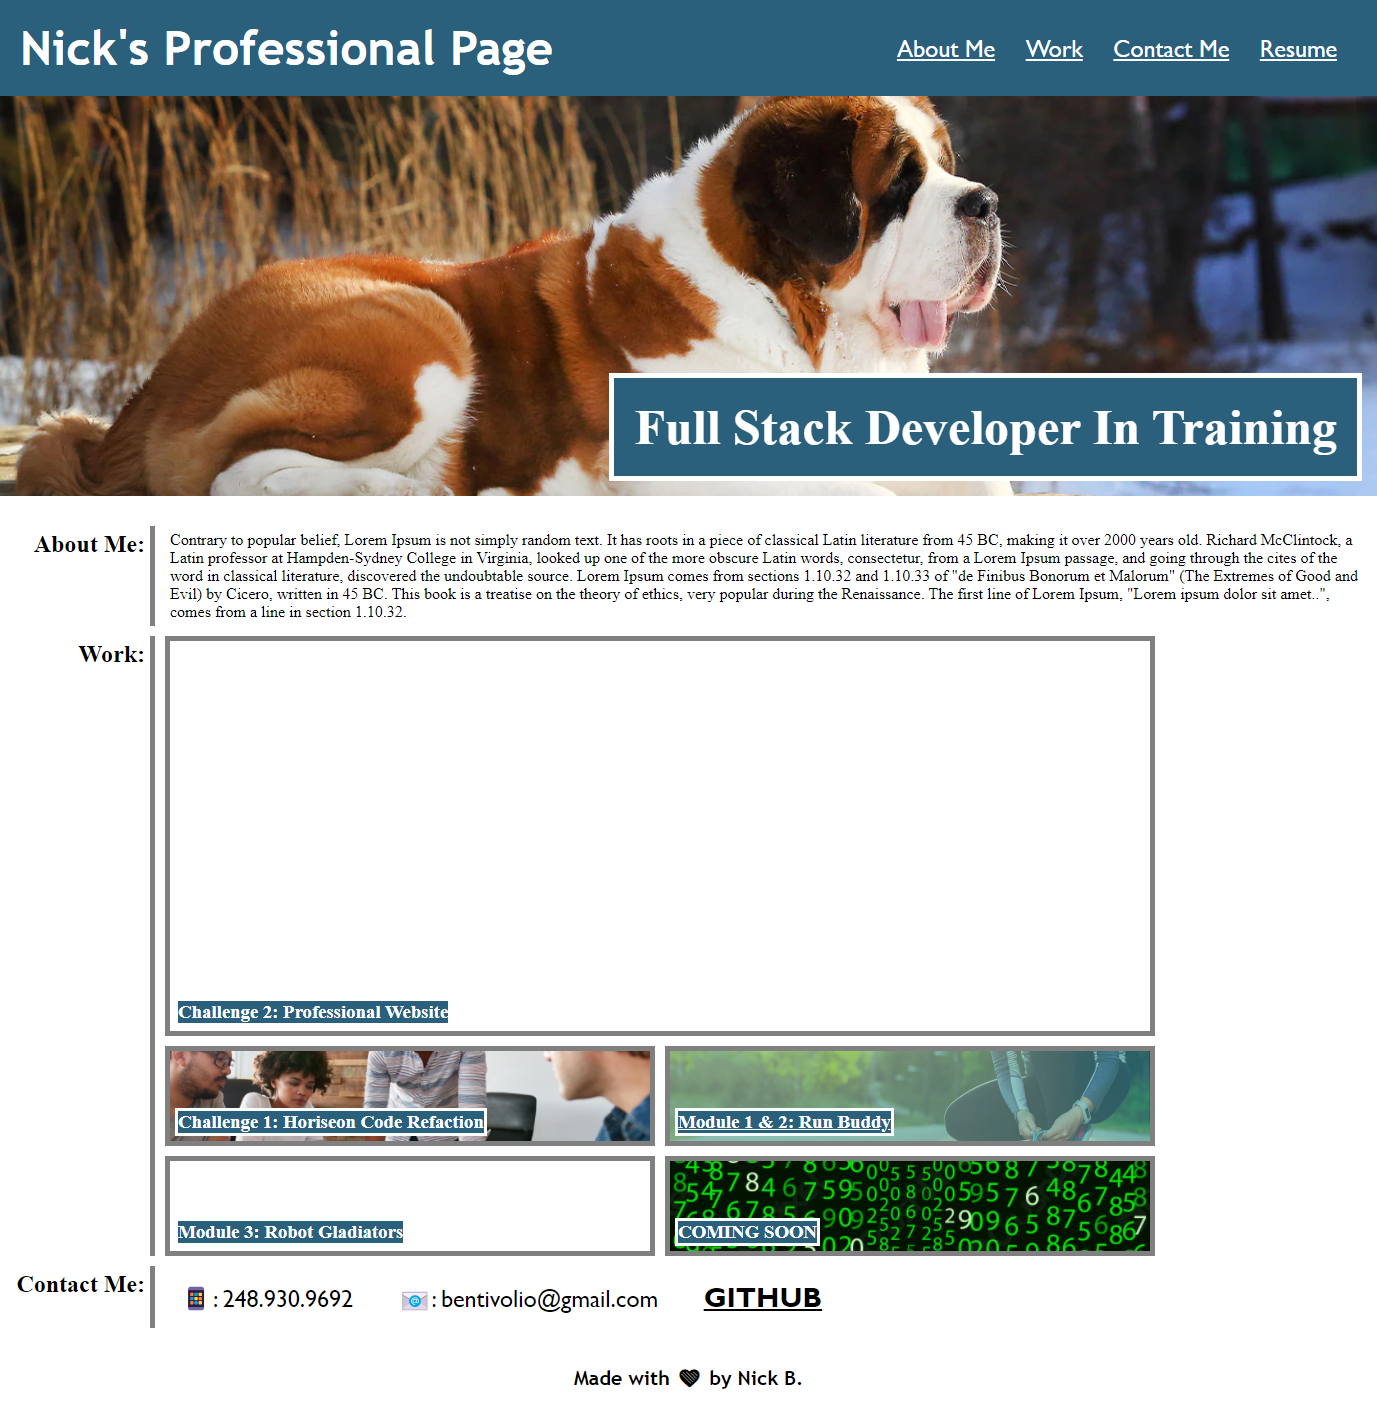
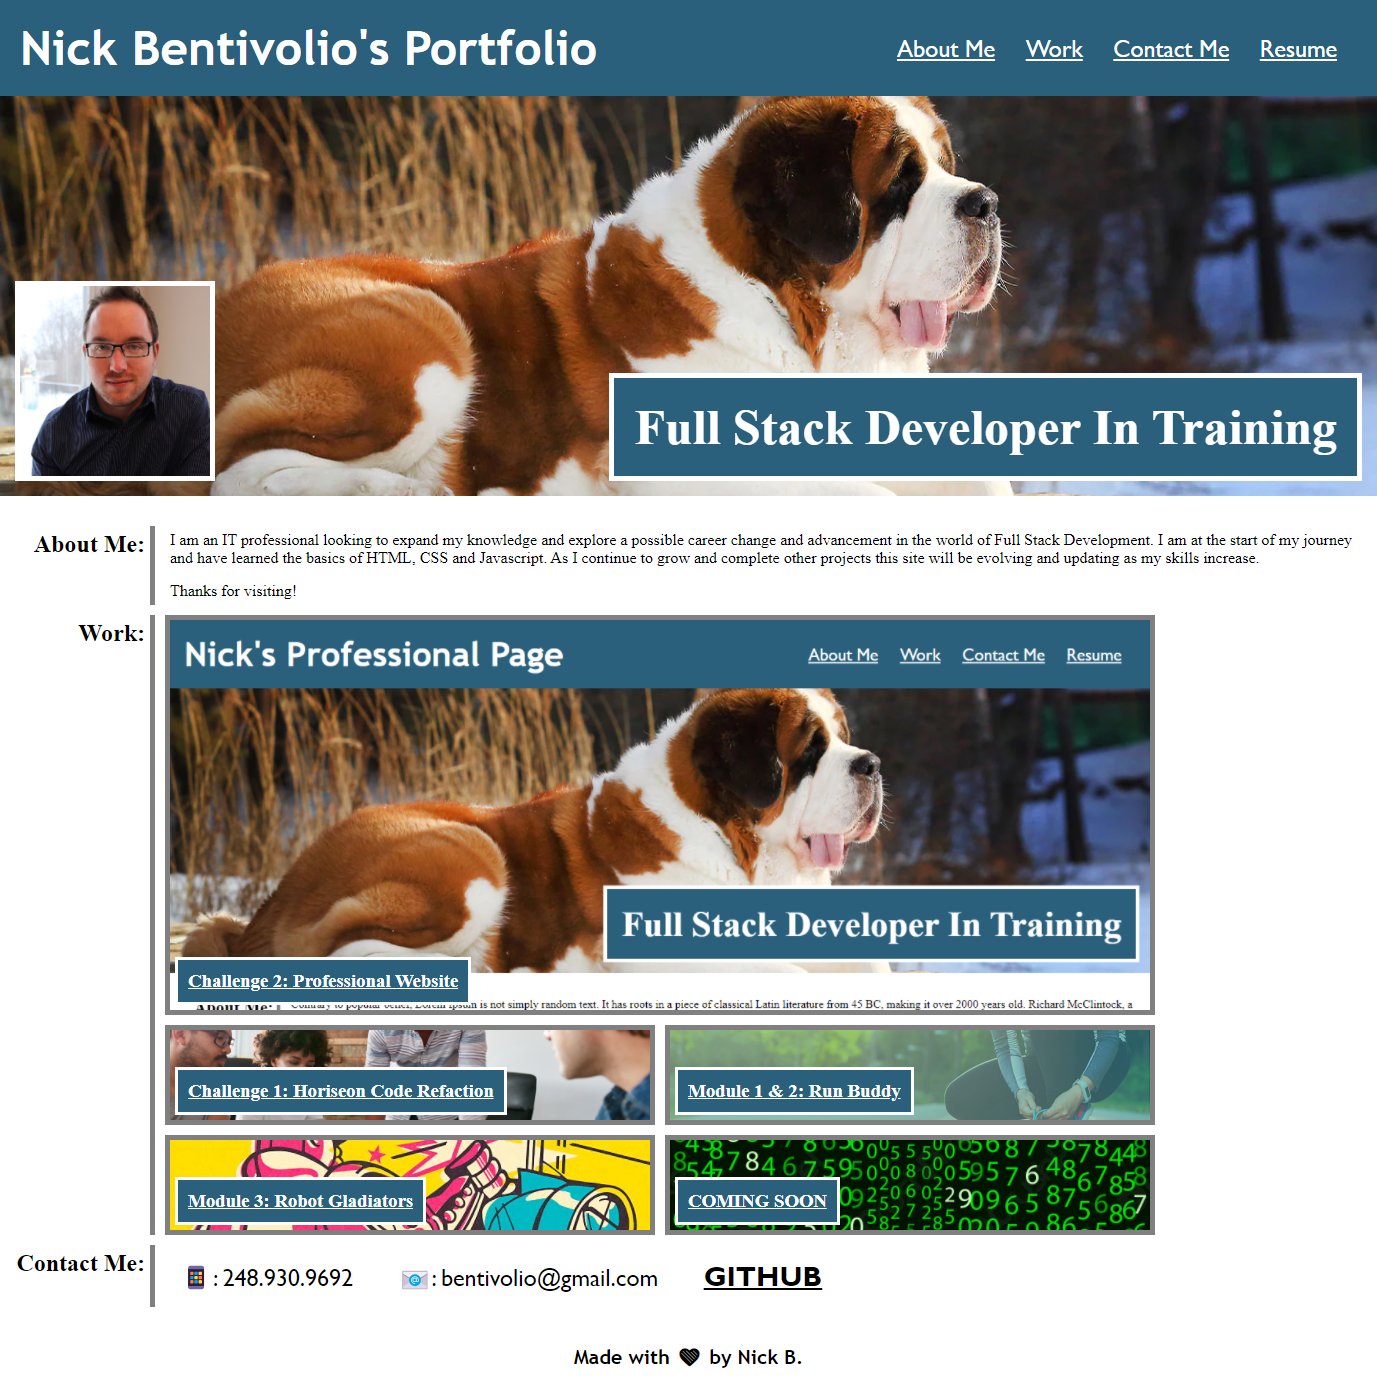
added profile picture, cleaned code

diff --git a/index.html b/index.html
@@ -52,6 +52,7 @@
     <div class="leftcontent"><h2 id="About Me">About Me:</h2></div>
     <div>
       <p>I am an IT professional looking to expand my knowledge and explore a possible career change and advancement in the world of Full Stack Development. I am at the start of my journey and have learned the basics of HTML, CSS and Javascript. As I continue to grow and complete other projects this site will be evolving and updating as my skills increase. </p>
+      <p>Below are links to my various repositories for projects in this class.</p>
       <p>Thanks for visiting!</p>
     </div>
   

diff --git a/assets/css/style.css b/assets/css/style.css
@@ -147,11 +147,10 @@ section div p {
 .flexwithinflex {
     position: absolute;
     left: 0;
-    bottom: 0;
-    border: 3px solid white;
-    background-color: var(--primary-background);
+    bottom: 5px;
+    border: 3px solid grey;
+    background-color: grey;
     color: var(--primary-color);
-    margin: 5px;
     padding: 10px;
 }
 
